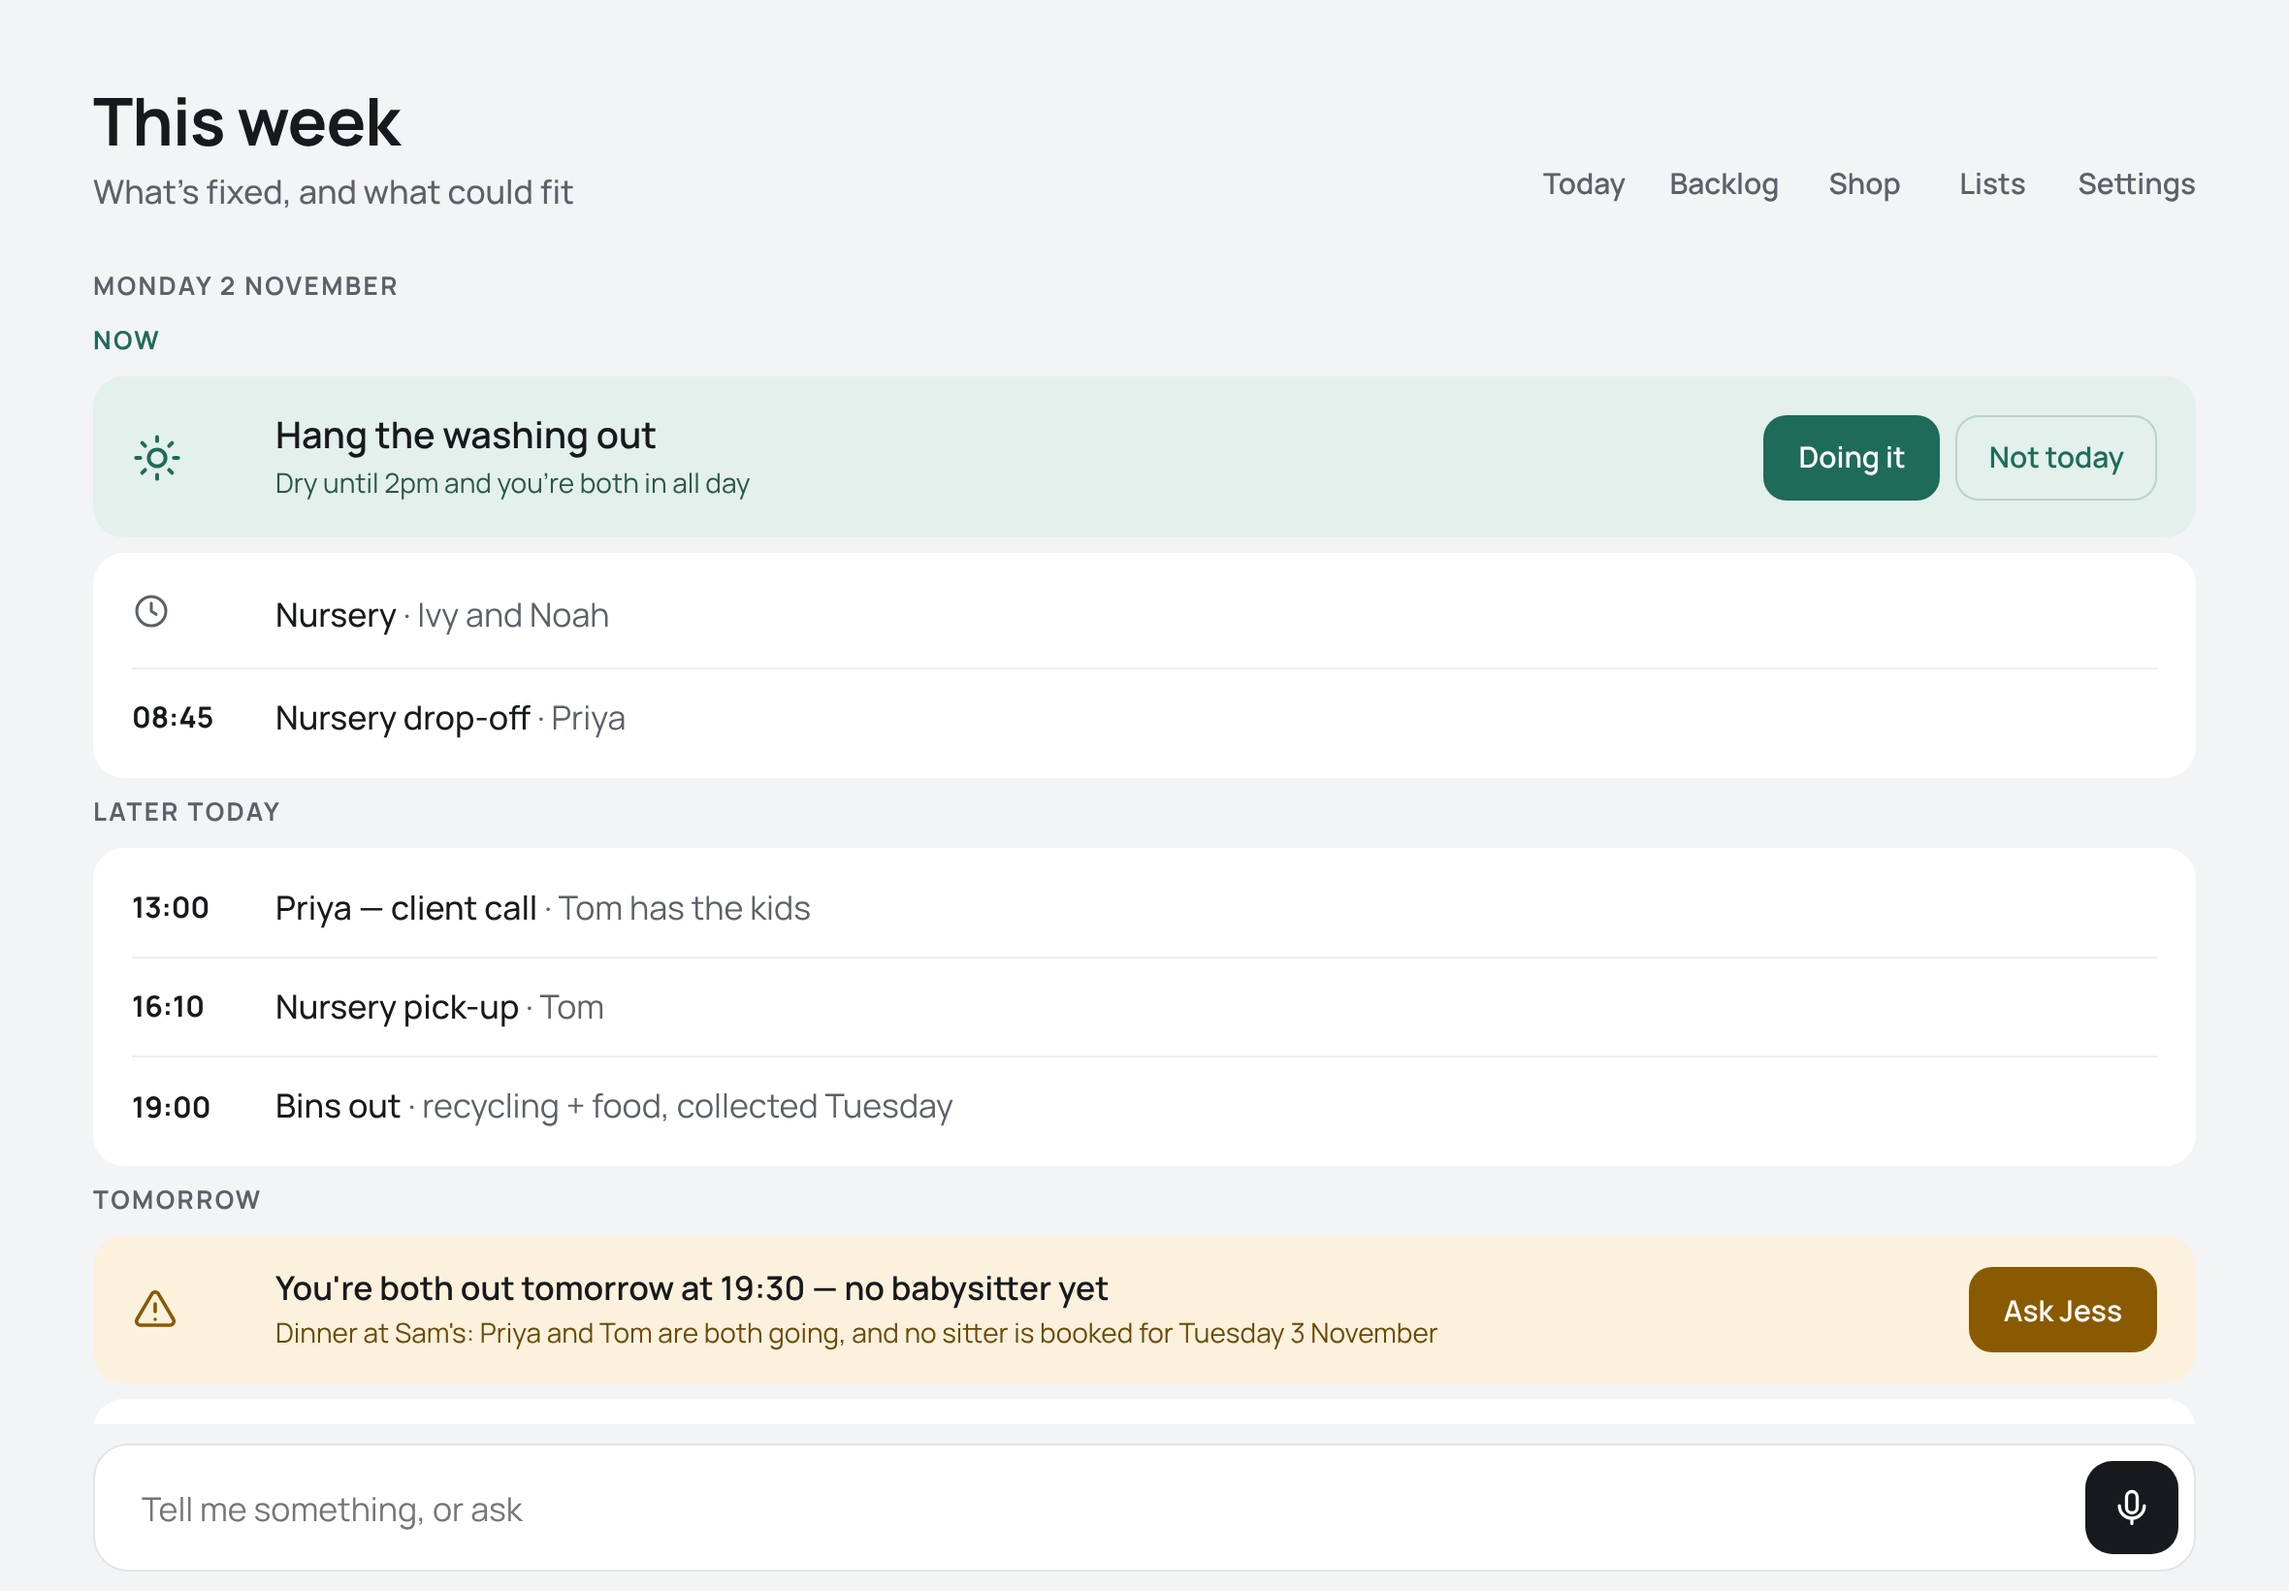
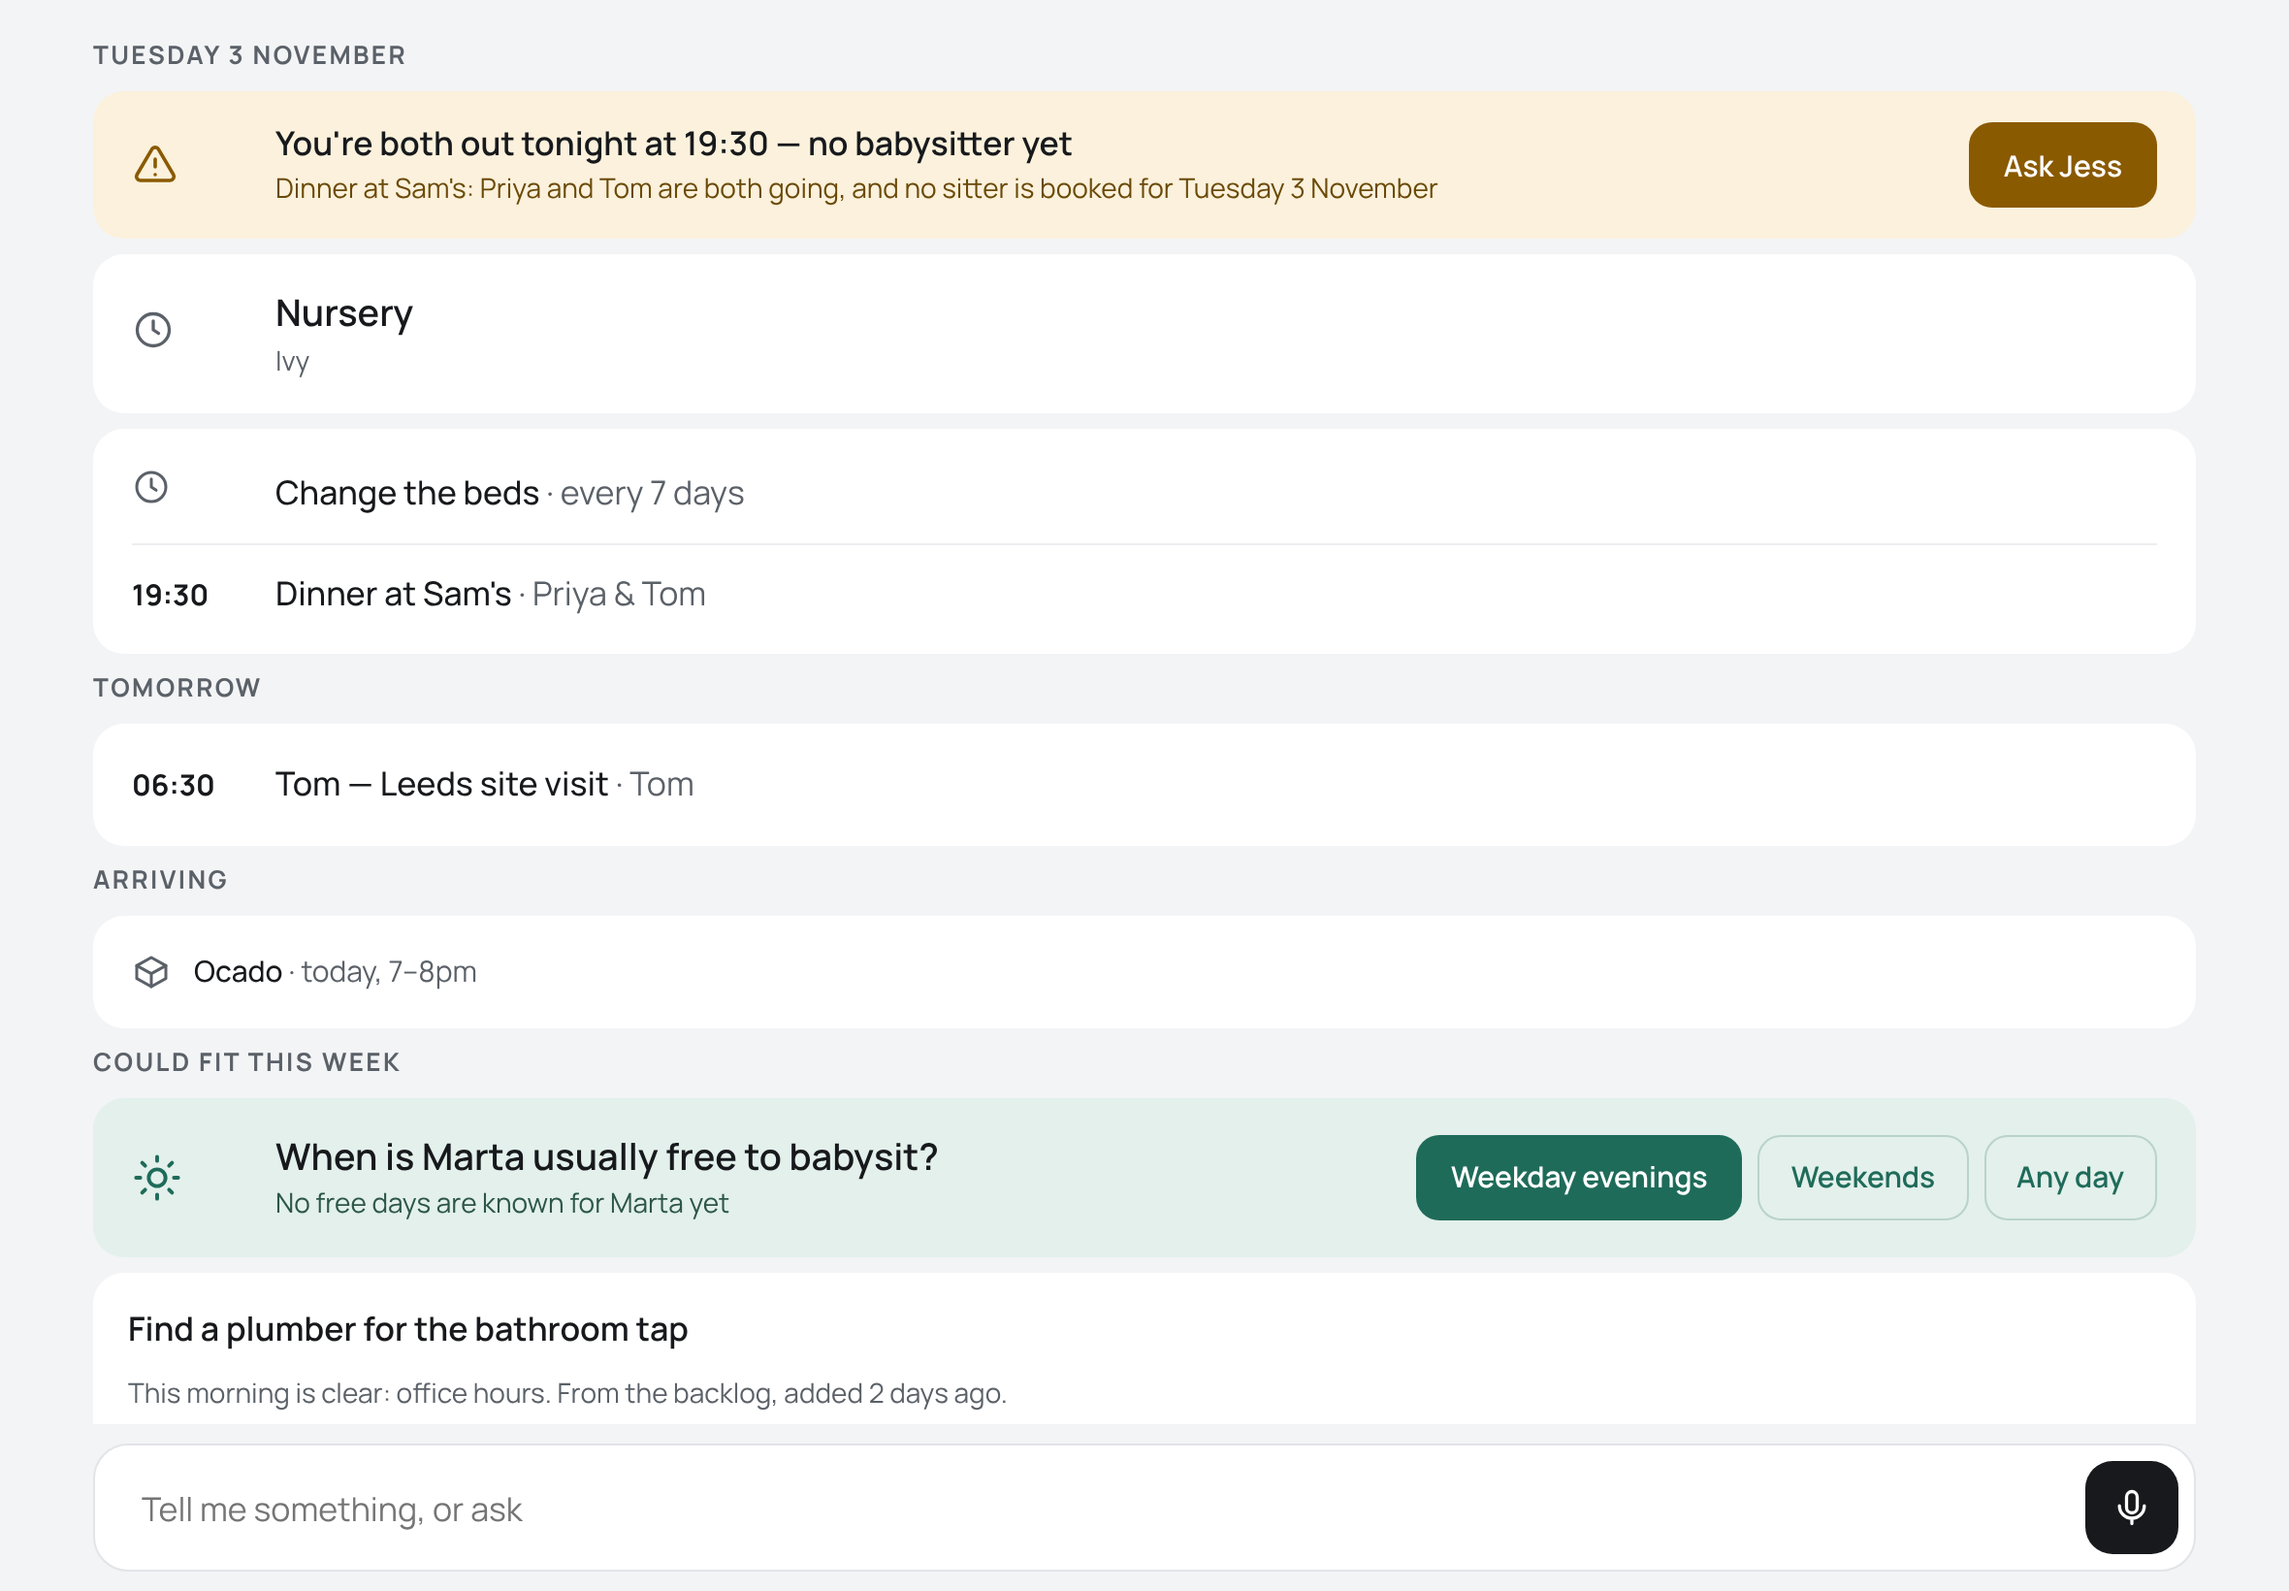
HOU-153: the Week evidence shows the later day without its labels (re-review: low)
Claude-Session: https://claude.ai/code/session_01J2FKjfmdmENgJB7HsjbyZn
Entire-Checkpoint: 01M6CHFE78Y5DT37F4RJJT5PH1

diff --git a/e2e/blocks.spec.ts b/e2e/blocks.spec.ts
@@ -100,5 +100,7 @@ test("[HOME-7] on Week, only today has a Now or Later today label; a later day's
   const tuesday = page.getByRole("region", { name: "Tuesday 3 November" });
   await expect(tuesday.getByText(/Dinner at Sam's/).first()).toBeVisible();
   await expect(tuesday.getByRole("heading", { name: /^(Now|Later today)$/ })).toHaveCount(0);
+  // The evidence shows the later day, the half of the change that drops the labels.
+  await tuesday.scrollIntoViewIfNeeded();
   await evidence(page, "HOU-153-week", { fullPage: false });
 });
